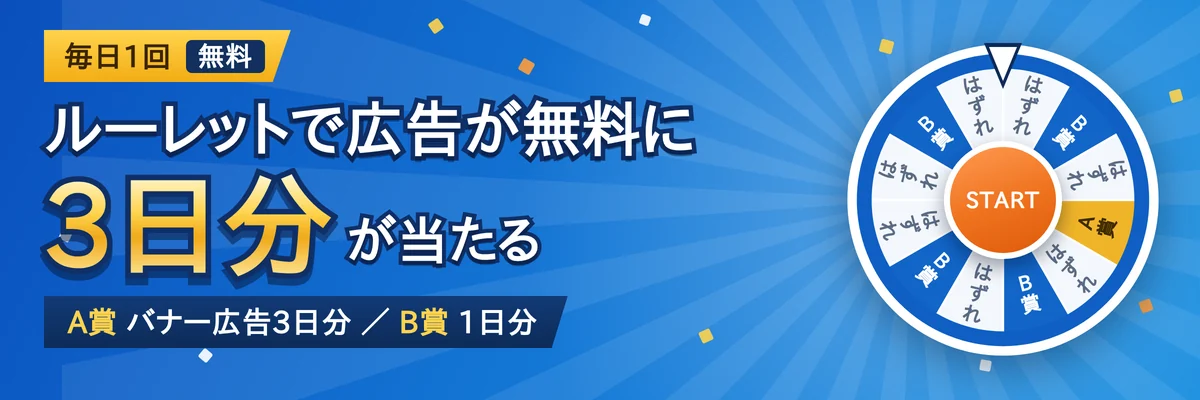
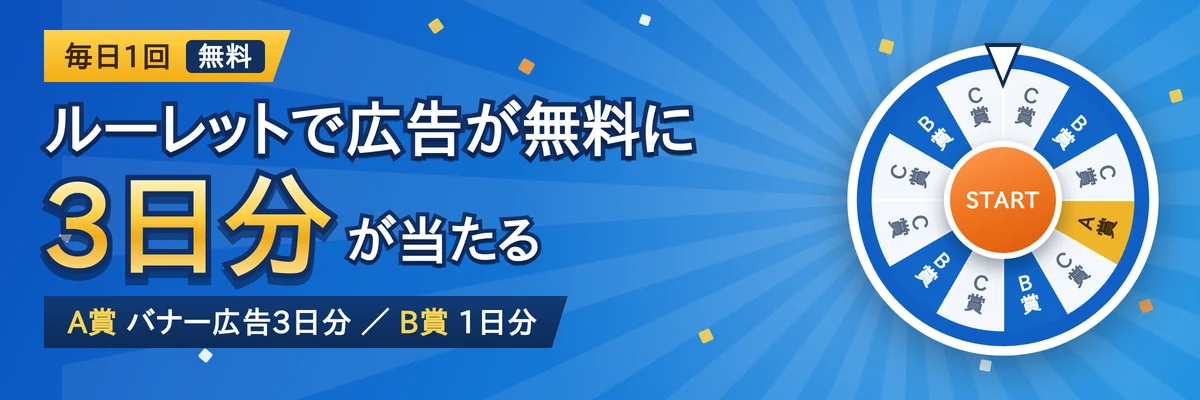
はずれをC賞にし、賞の一覧を順位が分かる形にする
- はずれに等級（C賞）を付けた。盤に「はずれ」と直接書くより角が立たず、
  A→B→Cで順位がひと目で分かる。当たっていないことは名前（「はずれ」）が
  言う。おみくじの回は名前そのものが順位なので等級なしのまま
- 当たりの一覧を**上から順に良い賞**の縦並びに戻し、左の帯と札の色で順位を
  出した。横に3つ並べると対等に見えて、どれが上なのか伝わらない
- 真ん中のボタンの文字が丸からはみ出していた。文字の大きさを**盤の幅に
  対する割合**で決めるようにした。決め打ちだと、盤が小さくなる端末で溢れる
  （字の幅は端末によっても違い、iPhoneのほうが広い）。丸も少し大きくした
- 押すところの合図に出していた輪をやめた。ボタンを大きく橙にしたいま、
  賞の名前の上を横切るだけの飾りになっていた
- バナーの盤も C賞 に描き替えた

iPhone SE・iPhone 14 で、文字が丸に収まり、画面もスクロールなしで
収まることを確かめた。

Claude-Session: https://claude.ai/code/session_01MWcWZbT7Kqcwm12uJEzVyT

diff --git a/app/globals.css b/app/globals.css
@@ -2155,7 +2155,9 @@ body { font-weight:600; }
    **盤に見えているコマ数が、そのまま当たりやすさ**（並びはサーバーが作る）。
    回すのは `.gacha-wheel-turn` ひとつだけ。針と真ん中のボタンを一緒に回すと、
    どこで止まったのか分からなくなる。 */
-.gacha-wheel { width:min(268px,74vw); margin:11px auto 0; position:relative; z-index:2; aspect-ratio:1; }
+.gacha-wheel { width:min(268px,74vw); margin:11px auto 0; position:relative; z-index:2; aspect-ratio:1;
+  /* 真ん中のボタンの文字を、盤の大きさに合わせて縮められるようにする。 */
+  container-type:inline-size; }
 /* **画面の高さでも縮める。** 盤の下には当たりの一覧と引くボタンが続くので、
    幅だけで決めると、背の低い端末（iPhone SE など）でボタンが画面の外に出る。
    上の1行を残してあるのは、この書き方を読めない古い端末のため。 */
@@ -2190,31 +2192,27 @@ body { font-weight:600; }
 /* **押すところは、盤より目立たせる。** 白い丸を白い盤に置くと、飾りの
    ハブに見えて、押せることが伝わらない。盤に無い色（アプリの橙）で塗り、
    白い縁で盤から浮かせる。 */
-.gacha-wheel-go { position:absolute; left:50%; top:50%; z-index:3; width:37%; aspect-ratio:1;
+.gacha-wheel-go { position:absolute; left:50%; top:50%; z-index:3; width:40%; aspect-ratio:1;
   transform:translate(-50%,-50%); border:5px solid #fff; border-radius:50%; cursor:pointer;
   background:linear-gradient(160deg,#ff9a52,#f0731f 52%,#dd5a09); color:#fff;
-  font-family:inherit; font-size:17px; font-weight:900; letter-spacing:.07em;
+  font-family:inherit; font-size:14px; font-weight:900; letter-spacing:.02em;
+  /* **丸から文字がはみ出さない大きさにする。**
+     盤は画面の大きさで縮むので、文字を決め打ちにすると小さい端末で溢れる。
+     端末によって字の幅も違う（iPhone のほうが太く広い）ので、余裕を持たせて
+     盤の幅に対する割合で決める。上の1行は、この書き方を読めない端末向け。 */
+  padding:0 4px; white-space:nowrap;
   box-shadow:0 8px 20px rgba(4,16,38,.42);
   -webkit-tap-highlight-color:transparent; }
-.gacha-wheel-go:disabled { border-color:#f2f5f9; cursor:default; font-size:13px; letter-spacing:0;
+.gacha-wheel-go { font-size:max(11px, 5.2cqw); }
+.gacha-wheel-go:disabled { border-color:#f2f5f9; cursor:default; letter-spacing:-.01em;
   background:linear-gradient(160deg,#fdfefe,#e7edf5); color:#a7b2c2;
   box-shadow:0 4px 12px rgba(4,16,38,.18); }
 /* 回っている最中は**止める色**にする。押せることが見えていないと、
    止められない。同じ色のままだと、押すところが変わったと気づかない。 */
 .gacha-wheel.is-spinning .gacha-wheel-go:not(:disabled) {
   background:linear-gradient(160deg,#ff6d80,#e0384f 52%,#c31a33); color:#fff; }
-/* 止まっているあいだ、押すところに輪を広げる。**ボタン自体は動かさない。**
-   ボタンごと脈打たせると、押そうとしたときに的が動く。 */
-.gacha-wheel-go::after { content:''; position:absolute; inset:-6px; border-radius:50%;
-  border:3px solid rgba(240,115,31,.9); opacity:0; pointer-events:none; }
-.gacha-wheel:not(.is-spinning) .gacha-wheel-go:not(:disabled)::after { animation:gacha-go 1.7s ease-out infinite; }
-@keyframes gacha-go {
-  0% { transform:scale(.92); opacity:.8; }
-  100% { transform:scale(1.4); opacity:0; }
-}
-@media (prefers-reduced-motion: reduce) {
-  .gacha-wheel-go::after { animation:none; }
-}
+/* 「押すところ」の合図に輪を広げていたが、やめた。ボタンを大きく橙にした
+   いま、輪は賞の名前の上を横切るだけの飾りになっていた。 */
 
 /* ── 画面いっぱいのシート ───────────────────────────────
    ルーレットのように、絵と結果とボタンが縦に並んで初めて成り立つものは、
@@ -2230,23 +2228,6 @@ body { font-weight:600; }
     max-height:calc(100vh - 32px); max-height:calc(100dvh - 32px); border-radius:28px; }
 }
 
-/* ── ガチャ：ルーレットのときの当たり一覧 ─────────────────
-   盤に「A賞」と書いてあるのだから、下でもう一度長い名前を縦に並べると、
-   同じことを二度言ったうえで画面がはみ出す。**盤の名前とそろえた一列**にして、
-   もらえる日数だけを添える。何の日数かは、上の一文で言っている。 */
-.gacha-legend { margin:13px 0 0; padding:0; list-style:none; display:grid; gap:7px;
-  grid-template-columns:repeat(auto-fit,minmax(0,1fr)); }
-.gacha-legend li { padding:8px 4px; display:grid; gap:4px; justify-items:center;
-  border:1px solid var(--line); border-radius:12px; background:#fff; }
-.gacha-legend i { padding:3px 8px; border-radius:7px; background:#eef2f8; color:#8b97aa;
-  font-size:11px; font-style:normal; font-weight:900; white-space:nowrap; }
-.gacha-legend b { color:#66758c; font-size:10px; font-weight:800; white-space:nowrap; }
-.gacha-legend li.is-win { border-color:#f6d9bd; background:#fff8f1; }
-.gacha-legend li.is-win i { background:var(--accent); color:#fff; }
-.gacha-legend li.is-win b { color:#a2500b; }
-.gacha-legend li.is-top { border-color:#e8c877; background:linear-gradient(120deg,#fff8e3,#fffdf6); }
-.gacha-legend li.is-top i { background:linear-gradient(135deg,#e0a51c,#f5cd53); color:#4d3400; }
-.gacha-legend li.is-top b { color:#7a5a12; }
 
 /* 画面いっぱいのシートでは、上下の余白を詰める。**盤・当たりの一覧・引く
    ボタンが一度に見えることのほうが、余白より大事。** */
@@ -2254,7 +2235,6 @@ body { font-weight:600; }
 .modal.is-full .modal-lead { margin:6px 0 12px; }
 .modal.is-full .gacha-stage { padding:11px 20px 13px; }
 .modal.is-full .gacha-stage-note { margin-top:9px; }
-.modal.is-full .gacha-legend { margin-top:11px; }
 .modal.is-full .gacha-draw { min-height:52px; margin-top:12px; }
 .modal.is-full .gacha-note { margin-top:10px; }
 @media (min-width:481px) {
@@ -2286,3 +2266,17 @@ body { font-weight:600; }
 .gacha-gift-gauge i { height:100%; display:block; border-radius:99px;
   background:linear-gradient(90deg,#e0a51c,#f5cd53); }
 .gacha-gift small b { font-weight:900; }
+
+/* ── ガチャ：当たりの一覧（画面いっぱいのシート） ─────────────
+   **上から順に良い賞。** 横に3つ並べると対等に見えて、どれが上なのか
+   伝わらない。縦に積み、左の帯と札の色で順位を出す。 */
+.modal.is-full .gacha-prizes { margin-top:14px; gap:7px; }
+.modal.is-full .gacha-prizes li { padding:9px 13px 9px 10px; gap:10px; border-left-width:5px; }
+.modal.is-full .gacha-prizes li i { min-width:46px; padding:4px 6px; font-size:12px; }
+.modal.is-full .gacha-prizes li b { font-size:13px; }
+.modal.is-full .gacha-prizes li span { font-size:11px; font-weight:800; }
+/* 左の帯。順位が上の賞ほど濃い。 */
+.modal.is-full .gacha-prizes li { border-left-color:#cdd7e4; }
+.modal.is-full .gacha-prizes li.is-win { border-left-color:var(--accent); }
+.modal.is-full .gacha-prizes li.is-top { border-left-color:#e0a51c; }
+.modal.is-full .gacha-prizes li.is-top b { font-size:14.5px; }

diff --git a/app/BoardClient.tsx b/app/BoardClient.tsx
@@ -2289,25 +2289,19 @@ export default function BoardClient({ initialRequests, initialStats, initialAds,
           {!gacha.drawnToday
             ? <>
               {/* 何が当たるかは先に出す。中身を伏せたまま引かせない。
-                  ルーレットのときは**盤の名前とそろえた一列**にする。盤に
-                  「A賞」と書いてあるのだから、下でもう一度長い名前を縦に
-                  並べると、同じことを二度言ったうえで画面がはみ出す。 */}
-              {gacha.season.motion === 'wheel'
-                ? <ul className="gacha-legend">{gacha.season.prizes.map((prize) =>
-                  <li key={prize.key} className={prize.days >= 3 ? 'is-top' : prize.days ? 'is-win' : ''}>
-                    <i>{prize.short}</i><b>{prize.days ? `${prize.days}日分` : '—'}</b>
-                  </li>)}</ul>
-                : <ul className="gacha-prizes">{gacha.season.prizes.map((prize) => {
+                  **上から順に良い賞**にして、等級の札を先頭にそろえる。
+                  横に並べると3つが対等に見えて、どれが上なのか伝わらない。 */}
+              <ul className="gacha-prizes">{gacha.season.prizes.map((prize) => {
                 const reward = prize.days ? `無料券 ${prize.days}日分` : '';
                 return <li key={prize.key} className={prize.days >= 3 ? 'is-top' : prize.days ? 'is-win' : ''}>
-                  {/* はずれの行に「はずれ」と2度書かない。等級の欄は線だけにする。 */}
+                  {/* 等級の名前が無い回（おみくじ）は、欄を線だけにする。 */}
                   <i>{prize.tier || '—'}</i><b>{prize.label}</b>
                   {/* 中身がそのまま名前になっている回（ふだんの回）では、
                       同じことを2度書かない。おみくじのように名前と中身が
                       違う回だけ、もらえる日数を右に出す。 */}
                   {reward && !prize.label.includes(`${prize.days}日分`) && <span>{reward}</span>}
                 </li>;
-                })}</ul>}
+              })}</ul>
               {/* ルーレットは**盤の真ん中が押すところ**なので、下に同じボタンを
                   置かない。回している最中に赤いSTOPと青いSTOPが並ぶと、
                   どちらを押せばいいのか分からなくなる。 */}

diff --git a/app/gacha.ts b/app/gacha.ts
@@ -16,8 +16,11 @@
 export type GachaPrize = {
   key: string;
   /**
-   * 賞の等級。「A賞」「B賞」など。**はずれは空にする。**
-   * 何が当たったかは `label` と `days` で言うので、ここは順位だけを表す。
+   * 賞の等級。「A賞」「B賞」「C賞」。**順位だけを表す。**
+   * 何が当たったかは `label` と `days` で言う（C賞の label は「はずれ」）。
+   *
+   * 空にすると等級の欄が「—」になる。おみくじのように、名前そのものが
+   * 順位を表している回（大吉・中吉…）で使う。
    */
   tier: string;
   /** 結果の名前。おみくじなら「大吉」など。 */
@@ -151,7 +154,7 @@ export const adGacha = {
           note: '大きな箱が当たりました。' },
         { key: 'x1', tier: 'B賞', label: 'プレゼント', short: 'B賞', days: 1, slots: 4,
           note: '箱の中に無料券が入っていました。' },
-        { key: 'x0', tier: '', label: 'くつ下は空っぽ', short: '空っぽ', days: 0, slots: 7,
+        { key: 'x0', tier: 'C賞', label: 'くつ下は空っぽ', short: 'C賞', days: 0, slots: 7,
           note: '今日は何も入っていませんでした。また明日どうぞ。' },
       ],
     },
@@ -200,7 +203,7 @@ export const adGacha = {
           note: 'いちばん大きい当たりです。' },
         { key: 'd1', tier: 'B賞', label: '広告の無料券 1日分', short: 'B賞', days: 1, slots: 4,
           note: 'こつこつためていきましょう。' },
-        { key: 'd0', tier: '', label: 'はずれ', short: 'はずれ', days: 0, slots: 7,
+        { key: 'd0', tier: 'C賞', label: 'はずれ', short: 'C賞', days: 0, slots: 7,
           note: '今日はご縁がありませんでした。また明日どうぞ。' },
       ],
     },

diff --git a/docs/ad-gacha-ja.md b/docs/ad-gacha-ja.md
@@ -81,11 +81,15 @@
 - 揺れも紙吹雪も、動きを止める設定の端末では止まる（`prefers-reduced-motion`）
 - いちばん上の賞（A賞）だけ金色にしてある。どれが目玉か一目で分かるように
 - **押すところは盤の真ん中ひとつ**（START／STOP／もう一度／また明日）。
+  文字の大きさは**盤の幅に対する割合**で決めている（`cqw`）。決め打ちにすると、
+  盤が小さくなる端末で丸から文字がはみ出す。字の幅は端末によっても違う。
   文字は**その場で何ができるか**をそのまま書く。引き終わっても START のままだと、
   押せば回ると思わせてしまう。運営は「もう一度」、会員は「また明日」（押せない）。盤に無い色（アプリの橙、
   回している間は赤）で塗り、白い縁で盤から浮かせてある。白い丸を白い盤に
   置くと飾りのハブに見えて、押せることが伝わらない。**下に同じボタンを
   置かない**（赤いSTOPと青いSTOPが並ぶと、どちらを押すのか分からない）
+- 当たりの一覧は**上から順に良い賞**を縦に積む。左の帯と札の色で順位を出す。
+  横に3つ並べると対等に見えて、どれが上なのか伝わらない
 - 結果の下は**大きい一言ひとつだけ**にしてある。同じ大きさの文が3行並ぶと、
   どれが結果でどれがお知らせか分からない。賞の一言（`prize.note`）で
   **賞の名前を言い直さない**のもこのため
@@ -176,7 +180,9 @@ ffmpeg -i もとの動画.mp4 -vf "scale=360:640" -frames:v 1 public/gacha/machi
 |---|---|---|---|---|---|
 | A賞 | 広告の無料券 3日分 | 大きなプレゼント | 大吉 | 3日分 | 1/12（8%） |
 | B賞 | 広告の無料券 1日分 | プレゼント | 中吉・小吉 | 1日分 | 4/12（33%） |
-| —  | はずれ | くつ下は空っぽ | 吉・末吉 | なし | 7/12（58%） |
+| C賞 | はずれ | くつ下は空っぽ | 吉・末吉（等級なし） | なし | 7/12（58%） |
+
+**はずれにも等級（C賞）を付けてある。** 盤に「はずれ」と直接書くより角が立たず、A→B→Cで**順位がひと目で分かる**。当たっていないことは `label`（「はずれ」）が言う。おみくじの回だけは、名前そのものが順位を表しているので等級を空にしてある。
 
 **分母はルーレットのコマ数そのもの。** 盤を見て数えた通りの確率になる。
 
